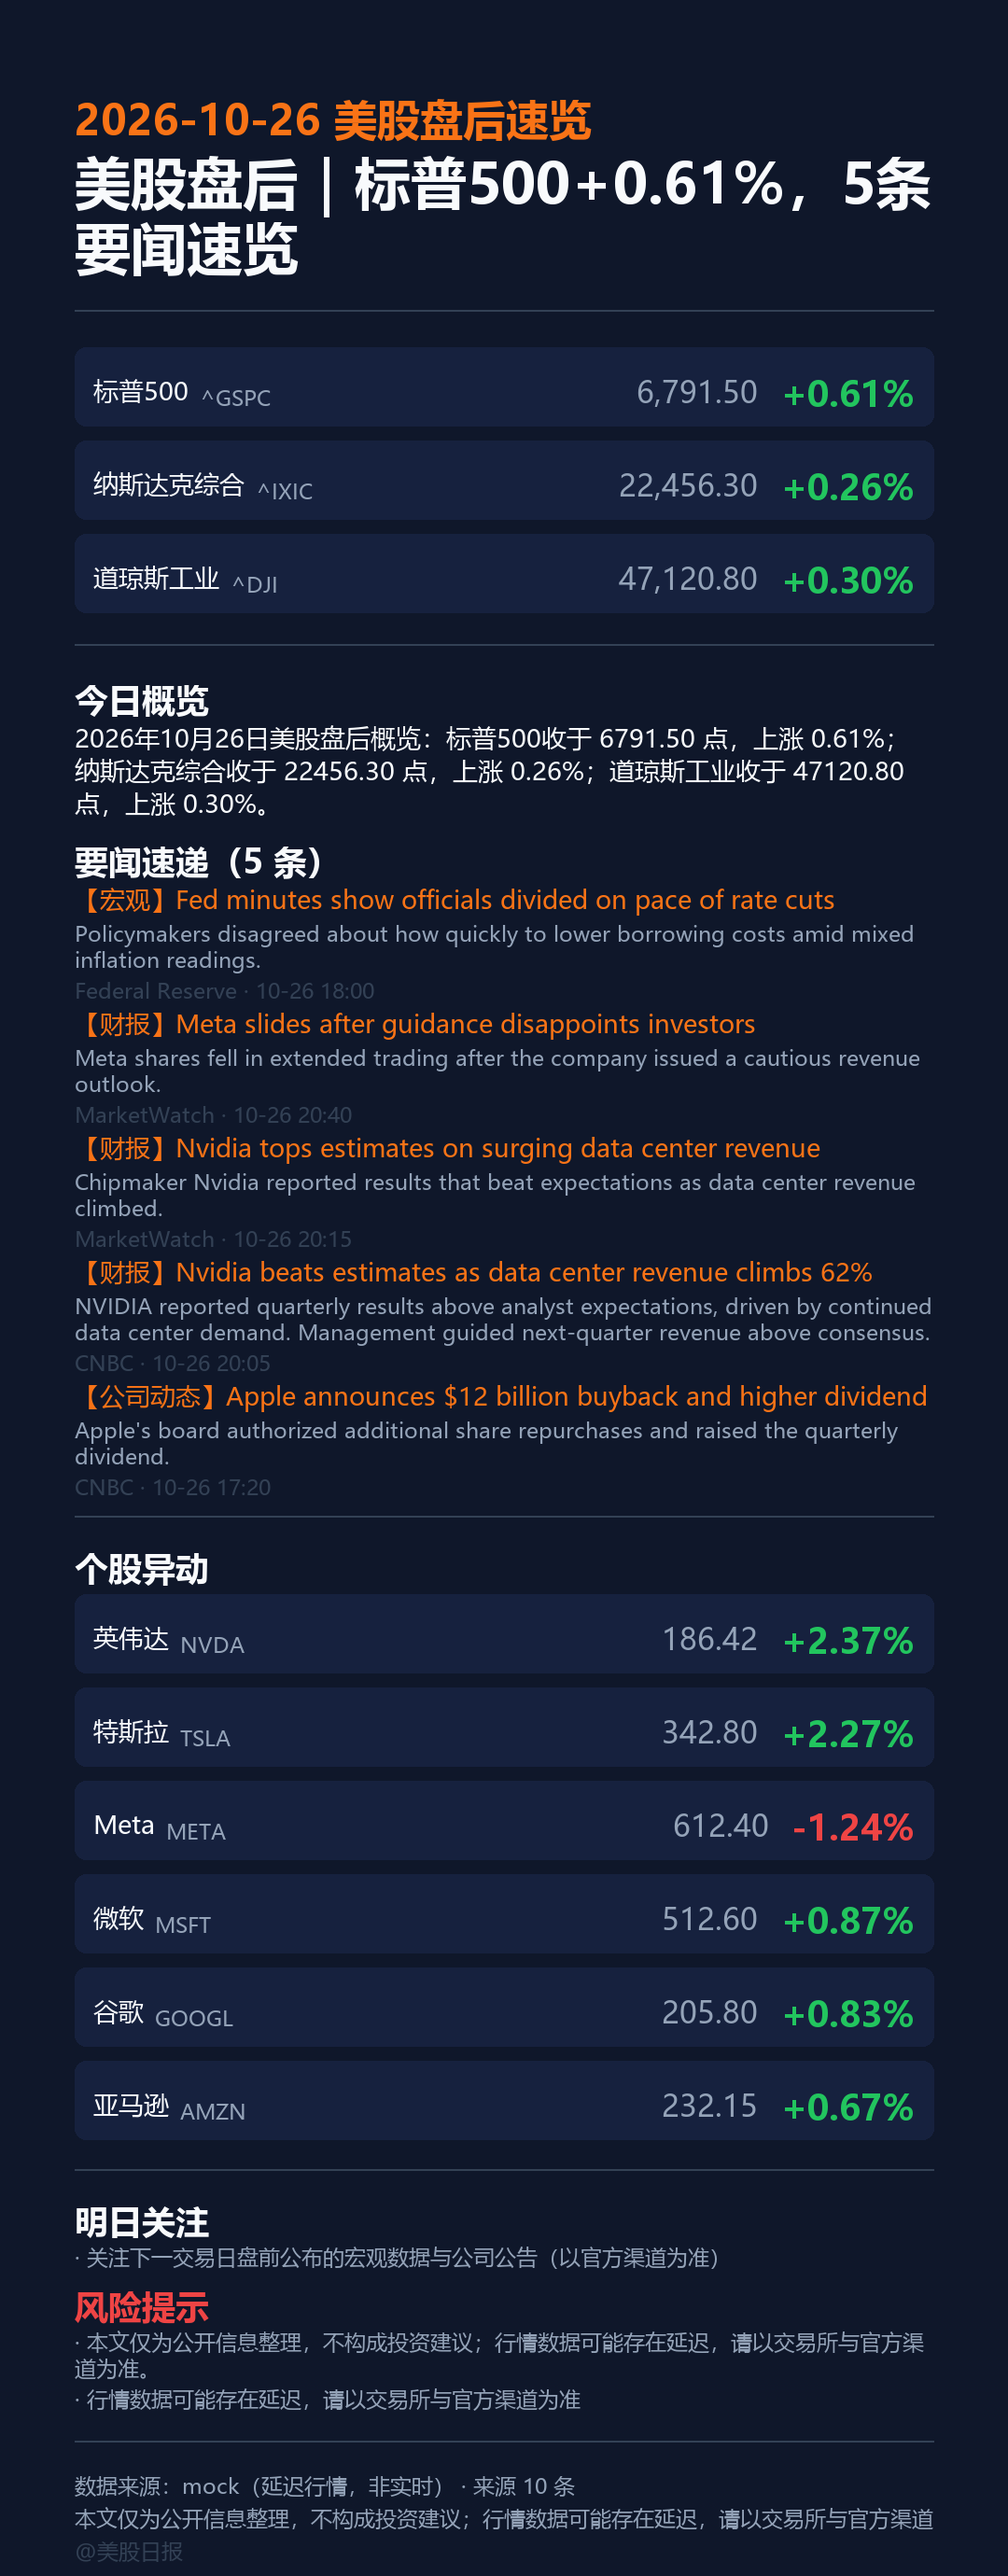
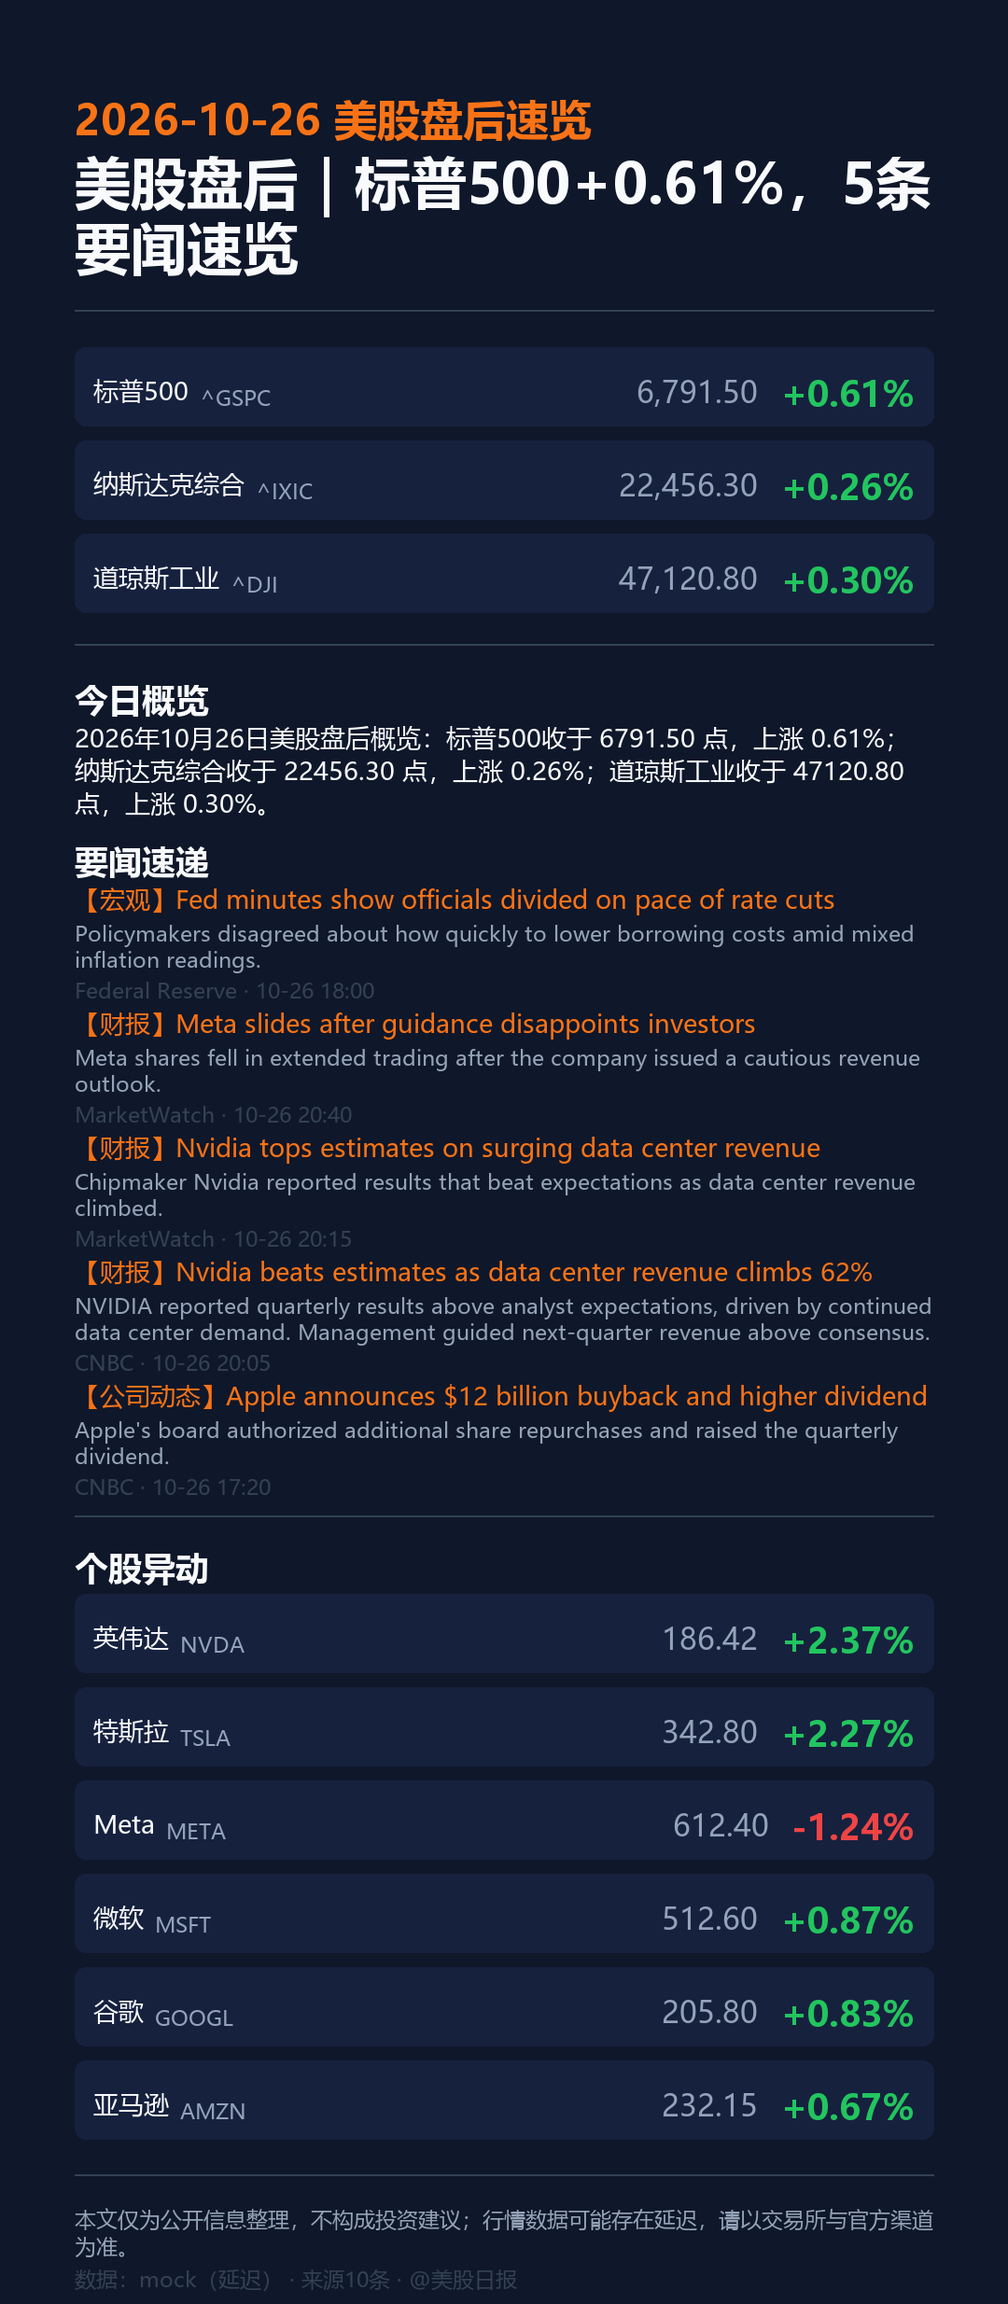
feat(one_page): 版式精简
- 要闻速递去掉「N条」字样；prompt 强化 headline 必须中文
- 移除明日关注区块
- 风险提示 + 数据来源合并为底部一栏两行简洁文字

diff --git a/src/usmarket/image_renderer/templates/one_page.py b/src/usmarket/image_renderer/templates/one_page.py
@@ -7,10 +7,9 @@
 1. 日期 + 标题
 2. 三大指数（紧凑行）
 3. 今日概览（限行）
-4. 要闻（每条限 3 行内）
+4. 要闻速递（每条限 3 行内）
 5. 个股异动（紧凑列表）
-6. 明日关注 / 风险提示
-7. 免责声明 footer（画在内容末尾，而非画布底部）
+6. 底部一栏：风险提示 + 数据来源（两行简洁文字）
 """
 
 from __future__ import annotations
@@ -119,10 +118,7 @@ class OnePageTemplate(BaseTemplate):
         # 要闻
         if content.top_news:
             self._guard(canvas)
-            self._line(
-                canvas, f"要闻速递（{len(content.top_news)} 条）",
-                "h2", self.theme.text_primary,
-            )
+            self._line(canvas, "要闻速递", "h2", self.theme.text_primary)
             for entry in content.top_news:
                 self._guard(canvas)
                 self._line(
@@ -158,33 +154,12 @@ class OnePageTemplate(BaseTemplate):
                 )
                 self._compact_quote(canvas, quote)
 
-        # 明日关注
-        if content.next_session:
+        # 低置信度提示（若有）
+        if content.low_confidence:
             self._guard(canvas)
             canvas.cursor_y += 12
-            self.divider(canvas)
-            canvas.cursor_y += 10
-            self._line(canvas, "明日关注", "h2", self.theme.text_primary)
-            for item in content.next_session[:3]:
-                self._line(
-                    canvas, "· " + item, "tiny", self.theme.text_secondary,
-                    max_lines=2, gap=5,
-                )
-
-        # 风险提示
-        if content.risk_notes:
-            self._guard(canvas)
-            canvas.cursor_y += 10
-            self._line(canvas, "风险提示", "h2", self.theme.negative)
-            for note in content.risk_notes[:2]:
-                self._line(
-                    canvas, "· " + note, "tiny", self.theme.text_secondary,
-                    max_lines=2, gap=5,
-                )
-
-        if content.low_confidence:
             self._line(
-                canvas, "低置信度：数据或新闻不足，发布前需人工复核", "tiny",
+                canvas, "低置信度：数据或新闻不足，内容需人工复核", "tiny",
                 self.theme.negative, max_lines=1,
             )
             canvas.cursor_y += 6
@@ -192,24 +167,21 @@ class OnePageTemplate(BaseTemplate):
     def _draw_footer(
         self, canvas: Canvas, content: DailyContent, snapshot: QuoteSnapshot
     ) -> int:
-        """footer 画在内容末尾（而非画布底部），返回结束 y。"""
+        """底部一栏：风险提示 + 数据来源合并为两行简洁文字。"""
         self._guard(canvas)
         canvas.cursor_y += 18
         self.divider(canvas)
         canvas.cursor_y += 12
+        risk = (content.risk_notes[0] if content.risk_notes
+                else "内容不构成投资建议，数据可能存在延迟")
+        self._line(canvas, risk, "tiny", self.theme.text_secondary, max_lines=2)
         self._line(
             canvas,
-            f"数据来源：{snapshot.provider}"
-            + ("（延迟行情，非实时）" if snapshot.is_delayed else "")
-            + f" · 来源 {len(content.sources)} 条",
-            "tiny", self.theme.text_secondary,
+            f"数据：{snapshot.provider}"
+            + ("（延迟）" if snapshot.is_delayed else "")
+            + f" · 来源{len(content.sources)}条 · @{self.cfg.account.name}",
+            "tiny", self.theme.muted,
         )
-        self._line(
-            canvas,
-            content.disclaimer or self.cfg.content.disclaimer,
-            "tiny", self.theme.text_secondary,
-        )
-        self._line(canvas, f"@{self.cfg.account.name}", "tiny", self.theme.muted)
         return canvas.cursor_y + 8
 
     # ---------- 原语 ----------
